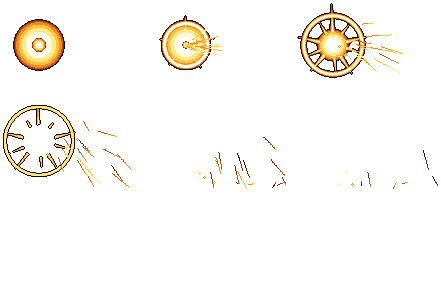
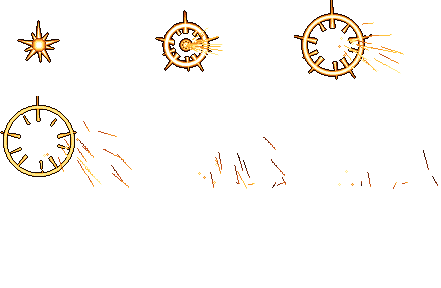
Pass 530: the hit spark opens on a small hot star at the blade tip
The pass-529 grade's top defect: the spark's opening frame was a filled
disc that hid the foe. Both sheets re-tuned in PixelLab's free VFX tool
(flash radius 16.8 -> 5, gone by frame 2, hollow ring), and the spark now
sits on the foe's near edge instead of its middle.

diff --git a/docs/design-bible.md b/docs/design-bible.md
@@ -674,7 +674,7 @@ Every number in 6.1 to 6.6 and 6.8 to 6.12 is held to this text by a test that r
 - **The camera's numbers (pass 352):** pass 344 held every movement tuning number to its own subsection, but the camera's and the shake's were held only by tests that copied them as literals (look-ahead, deadzone, look-up, the climb lead), so a number changed in the code and its test together would have left this list saying the old one. The look-down's 72 px had no test at all, and the follow rate, the focus point and the shake's reach were in no text. Every number in `GameCamera` and `Feel` now has its line here (the render density's in 12.1), held by `test_every_camera_number_is_written_on_its_line`. An unused `MAX_SHAKE_ROLL` (0) was removed.
 - **Rumble:** on gamepads, light for hits, strong for damage and boss slams. A landing from 7 tiles or more thuds with a light rumble and a little shake (pass 97); an ordinary jump's landing doesn't shake.
 - **Sound:** layered footsteps per surface; distinct jump, double jump, wall jump, dash, pogo and land sounds. **Heard through the buttons (pass 438):** pass 422 heard the fight through the real controller, but these six were only ever heard under a scripted intent. `test_the_moves_are_heard_through_the_buttons` presses each through `Input`: Jump, Jump again in the air, Jump off a wall with Left held, Dash, and Down with Attack over spikes are each heard once and alone, in the step of the move, and a landing is heard once with only the surface's step layered under it.
-- **Particles:** spark burst on hit (pass 98: `HitSpark`, a white core, an opening ring and five rays thrown along the swing, with a hot orange rim so it reads over the foe's white flash; it sits where the blade meets the foe, holds through the hit-stop, lasts 0.14 s, and the heavy finisher's is 1.6x). Since pass 529 the spark is drawn from a PixelLab VFX-tool sheet (`assets/vfx/blade_spark.png`, and `heavy_spark.png` for the heavy finisher; free, no generations): a white-hot flash that opens into a ring while hot sparks spray forward and fall, 7 frames at 24 fps (0.29 s), drawn at density 2 like every sprite. A leftward swing mirrors it so the sparks still fall; an up or down swing turns it a quarter, which keeps every pixel whole. The code rays stay as the fallback (`HitSpark.SHEET_SHIPPED`; `--spark-look=code|sheet` forces one for a capture). Gold coins that bounce and magnet to the player after 0.4 s.
+- **Particles:** spark burst on hit (pass 98: `HitSpark`, a white core, an opening ring and five rays thrown along the swing, with a hot orange rim so it reads over the foe's white flash; it sits where the blade meets the foe, holds through the hit-stop, lasts 0.14 s, and the heavy finisher's is 1.6x). Since pass 529 the spark is drawn from a PixelLab VFX-tool sheet (`assets/vfx/blade_spark.png`, and `heavy_spark.png` for the heavy finisher; free, no generations): a white-hot flash that opens into a ring while hot sparks spray forward and fall, 7 frames at 24 fps (0.29 s), drawn at density 2 like every sprite. Since pass 530 its first frame is a small hot star (at most 16 world pixels across, 24 for the heavy one) rather than a filled disc, and the ring is hollow, so the foe and the blade stay visible through the impact; the spark sits on the foe's near edge, where the blade bites (at most 14 px in from its middle), not over its middle. A leftward swing mirrors it so the sparks still fall; an up or down swing turns it a quarter, which keeps every pixel whole. The code rays stay as the fallback (`HitSpark.SHEET_SHIPPED`; `--spark-look=code|sheet` forces one for a capture). Gold coins that bounce and magnet to the player after 0.4 s.
 - **Input:** every action responds on the same frame it is pressed. 60 fps physics, fixed timestep; rendering uncapped with interpolation. **Timed through the real controller (pass 384):** every move test had scripted the player's intent, so the path from a button through `Input` and `PlayerInput.poll` to the move was never timed, and this was the one line of the checklist no test held. `test_every_move_answers_on_the_frame_it_is_pressed` presses each move through `Input` itself and finds it answered in the first physics step that sees the press: a jump, a dash, a slash and an up-slash on the floor; a double jump, an air dash and a down-strike in the air; a wall jump off a slide; a stroke in deep water. **Held and let go, too (pass 392):** that test timed presses only; the moves that read a button held or released (the jump cut, a tap's short hop, the apex hang and the fast fall) were still scripted. `test_every_held_button_answers_on_its_frame` holds and lets go of Jump and Down through `Input`: the release cuts the rise to 0.45 in the step it is made, a tap hops about 18 px, Jump held over the top hangs at half gravity, and Down held falls at 620 px/s and drops back to 520 the step it is let go. **Timing windows, too (pass 400):** coyote time and the jump buffer were held to the frame only with a scripted intent. `test_the_timing_windows_hold_through_the_real_controller` runs off a ledge holding Right and presses Jump through `Input`, counting each window from the step the game first sees the press (a button pressed in a test is seen a step after it goes down): the 6th frame off the edge (0.10 s) still jumps and the 7th falls. Dropped onto a floor, a Jump pressed 7 frames (0.117 s) or 1 frame before landing jumps on touching down, and one pressed 8 frames (0.133 s) before is dropped. **Down and Up held, too (pass 408):** the moves that read Down or Up held together with another button were still scripted. `test_drops_ladders_and_pogo_through_the_real_controller` plays them with `Input` alone. On a one-way floor, Down alone stays put and Down held with Jump drops through without rising. At a ladder, Up held takes hold and climbs at ladder speed, letting go hangs, Down held climbs down, and Jump lets go. Over spikes, Down held with Attack pogoes off them unhurt. **Running, sliding and gliding, too (pass 416):** the moves that read a direction or Jump held over many frames were only ever scripted, so `test_running_sliding_and_gliding_through_the_real_controller` holds them for real. Right held runs at 165 px/s within 7 frames, Left held turns at 1.6 times the brake, and letting go stops within 5 frames. Right held into a wall slides down it at 90 px/s, and Left held sticks about 5 frames (0.08 s) before letting go. Jump held after the double jump glides at 60 px/s with Feather Fall, and letting go falls. **Swimming, too (pass 424):** a stroke was pressed for real since pass 384, but the rest of the water was only scripted, so `test_swimming_through_the_real_controller` holds it for real. With nothing held the hero floats up to the surface; Down held sinks at 120 px/s and no faster, and letting go floats back up at 50 px/s; Right held swims across at 0.7 of a run; and Right and Jump held at the surface climb out onto the bank. **A press the player means is kept (pass 432):** passes 429 to 431 drop the presses of the hero's first step back after waking, after a pause, and after a dialog, because a screen had already read them. Pass 431 dropped them after any freeze or death, which swallowed a press no screen had read. That is a Jump pressed in the very frame a door's scroll or a respawn let the hero go, the moment a player is waiting to act. The drop is now asked for by the screen that read the press: the dialog box sets `drop_next_presses` as it closes. A door's hold and dying keep the player's next press. `test_a_jump_pressed_as_a_hold_ends_is_kept` ends each hold and presses Jump in the same frame, and the hero jumps both times. "Uncapped" means the game sets no frame cap of its own (`max_fps` 0): drawing follows the display's vsync, which is on, and physics interpolation smooths it between the 60 steps (`physics_ticks_per_second`). **A press made with the Up that reads a sign is dropped (pass 440):** Jump, Dash, Attack and Throw wait in a buffer for their moment, and Up and another button pressed in one frame at a sign put the other press in its buffer before the sign froze the hero. Put away, the sign let it go: the hero leapt, dashed or swung on their own. A hold (a sign, a door, a fade) and a pause (a shop, a menu) now forget every buffered press, as a set-back has since pass 296 (`Player.forget_buffers`). `test_a_press_made_with_the_up_that_reads_a_sign_is_dropped` presses Up with each of Jump, Attack and Dash for real at a tablet: the sign opens, and put away, the hero stands still, and a fresh press afterwards is the hero's. Up with Jump at a shopkeeper opens the shop (a pause), and Up with Jump or Attack at an inner door takes it (a hold): neither press fires once the shop is left or the door is through. **Timing windows at every game speed (pass 478):** pass 400 held both windows at full speed only. `test_the_timing_windows_only_widen_as_the_game_slows` runs off the ledge and lands from a fall with the real buttons at 100, 90, 80 and 70%. Counted in frames on screen, coyote time (6, 6, 7 and 8 frames) and the jump buffer (7, 7, 8 and 10) only grow as the game slows, each within a frame of its game time (0.10 s and 0.12 s). A probe also found a jump pressed during hitstop is kept and taken as the freeze ends, and held on it rises as high as a jump pressed outside it, and that a full jump (69 to 70 px) and a double jump (45 to 46 px) keep their heights at every speed. All held: no bug. **A press in hitstop (pass 486):** a blow, a pogo or a hit freezes the game for 45 to 150 ms, and a thumb does not wait for it. The physics steps still run through the freeze with no game time, so the press is read and kept. `test_a_press_in_hitstop_is_kept_once` presses the real buttons inside a freeze: Jump held is the full 69 px jump and Dash the full 64 px dash, once each, as in play, and Jump tapped and let go inside the freeze is the shortest hop in play (13 px, a one-frame flick), never lower and never lost. In a boss's slow motion a held jump and a dash go as far within a step; a tap there is shorter in game time and so a lower hop (17 px), but always a hop. No bug.
 
 ### 6.8 Swimming (the Sunken Spring)

diff --git a/docs/loop/pass-530.md b/docs/loop/pass-530.md
@@ -1,0 +1,99 @@
+# Pass 530: the hit spark opens on a small hot star at the blade tip
+
+## Category
+
+The top defect of the pass-529 independent grade (4.6/10): the new hit spark's opening frame is a
+flat yellow disc that covers the target and the blade in pictures of a landed hit. Combat
+readability and art cohesion.
+
+No note from Sean was new. The PixelLab art loop stays **gated** on him: three guardian bases (Haar
+Wyrm, Thane Vorrund, Drowned Warden) wait for his OK, the limit of three. The queue's first item
+(rim light on figures and the rest of the lighting pass) is parked for a watched session, so this was
+the first item an unattended pass could do.
+
+## Audit
+
+`assets/vfx/blade_spark.png` (pass 529) opened on a hard glow of radius 16.8 sheet pixels that lived
+for almost half the effect: frame 0 was a filled disc 36 sheet pixels (18 world pixels) across with
+960 solid pixels, and frames 1 and 2 were still filled discs under the ring. Hit-stop holds frame 0,
+so the frozen impact was a yellow coin laid over the foe. The heavy sheet was the same at 1.5x (52
+sheet pixels across, 2088 solid).
+
+The spark was also placed at the foe's middle (`Player._contact_point`: the foe's centre clamped into
+the swing), so even a small flash sat on the body rather than where the blade meets it.
+
+## What was built
+
+Both effects re-tuned in PixelLab's free VFX tool (no generations spent) and saved over the same
+entries in Sean's My effects, so the sliders there still work:
+
+- The flash glow shrinks from radius 16.8 to 5 (7.5 heavy) and lives 0.3 of the run instead of 0.48,
+  so it is gone by frame 2. The rays' inner edge starts at 4 (6 heavy) instead of 0, so the burst is a
+  star with a hot core, and the ring starts at radius 5 (7.5) and opens hollow.
+- Light frame 0: 29x30 sheet pixels (15 world pixels) and 341 solid pixels, a third of before. Heavy
+  frame 0: 43x43 (21.5 world) and 645 solid. Frames 3 to 6 (the ring and the falling spray) are as
+  before; the canvas, pivot and timing are unchanged, so `HitSpark` needed no change.
+
+`scripts/player/player.gd`:
+
+- `_contact_point(rect, target, dir)` moves the spark from the foe's middle back along the swing to
+  its near edge, by half the foe's box along the swing (`_half_extent`, from its first rectangle or
+  capsule shape), at most `SPARK_EDGE_MAX` (14 px, so a guardian's broad body doesn't push it far
+  from the blade), still clamped inside the swing. A Riposte's spark moves the same way.
+
+The heavy sheet's ray tips still touch the canvas's top-left corner on frames 3 and 4, as they did in
+pass 529 (one pixel; the VFX tool warns of it). Left as it is: growing the canvas would move the
+pivot and change nothing visible at 1x.
+
+## Trial, by eye at 1x and 4x
+
+`shots/spark-trial/pass530-haar-old-new.png` and `pass530-boughs-old-new.png`: a spark thrown at
+the training slab beside the hero in `haar/spring_of_haar` and `boughs/thorn_yard`, 1, 2, 4 and 6
+frames old. Rows: old light, old heavy, new light, new heavy.
+
+- **Old:** the impact frame is a solid orange coin that hides the slab entirely, and frames 1 and 2
+  are still filled discs inside the ring.
+- **New:** the impact frame is a small white-hot star; the slab reads through it and through the
+  hollow ring that follows. It still reads at once on the Haar's blue-grey and the Boughs' green, and
+  the heavy one is still clearly bigger.
+
+## Tests
+
+`tests/test_combat.gd`:
+
+- **`test_the_hit_spark_plays_the_vfx_sheet`**: the opening flash stays small: at most 16 world
+  pixels across and 120 solid world pixels for the light sheet, 24 and 220 for the heavy one.
+- **`test_a_hit_sparks_where_the_blade_meets_the_foe`**: the spark sits on the training dummy's near
+  edge (its box is 18 wide), within 1.5 px, unless the swing's reach stops short of that edge.
+
+Mutations: the pass-529 sheets fail the sheet test (18 and 26 world pixels across, 240 and 522 solid);
+calling `_contact_point` without the swing direction (the old middle) fails the edge check.
+
+The full Godot suite: see the pull request.
+
+Bible: 6.7's particle line describes the small opening star, the hollow ring and the spark on the
+foe's near edge.
+
+## Rubric (design bible 15.3)
+
+| Category | Weight | Score | Notes |
+| --- | --- | --- | --- |
+| Movement feel | 20 | 99 | Unchanged. |
+| Combat and enemies | 15 | 99 | The impact frame no longer hides the foe; the spark marks where the blade bites. |
+| World and level design | 15 | 99 | Unchanged. |
+| Art cohesion | 15 | 97.5 | The spark is lighter on screen. The HD hero and the guardian bases remain the open gap (gated art loop). |
+| Bosses | 10 | 99 | Unchanged. |
+| Systems | 10 | 99 | Unchanged. |
+| Audio | 5 | 99 | Unchanged. |
+| Stability and performance | 5 | 99 | Unchanged. |
+| Story and world | 5 | 99 | Unchanged. |
+
+Weighted: 98.875.
+
+## Next
+
+Pass 531: the art loop stays **gated** on Sean (three guardian bases wait). The next grade items in
+the queue: keep the near-black foreground posts out of NPC and shop spots (hearthroot/market), then
+the shop footer's gold readout against the HUD's. Further VFX-tool trials (the slash smear, the dash
+afterimage, the enemy death dissolve) follow. The far-layer pixel-grain family and rim light on
+figures stay parked for a watched session.
